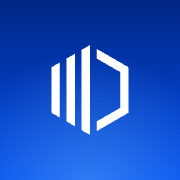
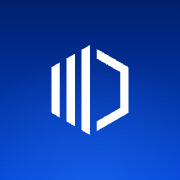
New brand palette: #011F6C, #0346D6, #236EF3
- --color-holo-25/50/75 tokens and lib/brand.ts switched to the latest
  webdev.co.id gradient, so CSS, WebGL and SVG art all follow
- Hard-coded rgba glows and shadows now derive from the tokens; the included
  icons' tints are mixed from the new light blue
- Favicon, apple icon and Open Graph image re-rendered in the new blues

diff --git a/src/components/home/Values.tsx b/src/components/home/Values.tsx
@@ -14,9 +14,9 @@ function ValueCard({ number, title, text, icon }: (typeof values)[number]) {
           className="absolute top-1/2 left-1/2 z-0 size-[310px] -translate-x-1/2 -translate-y-1/2 bg-[url(/images/patterns/dots.svg)] bg-center opacity-10"
         />
         {/* Icon in a blue-glowing double ring; the disc runs light blue → blue (brand gradient) */}
-        <div className="relative rounded-full bg-[linear-gradient(180deg,rgba(86,161,247,0.05)_0%,rgba(86,161,247,0)_100%)] p-3">
-          <div className="rounded-full bg-[rgba(86,161,247,0.3)] p-2 shadow-[0_0_80px_0_rgba(86,161,247,0.6)] backdrop-blur-md">
-            <div className="flex size-20 items-center justify-center overflow-hidden rounded-full bg-[linear-gradient(180deg,var(--color-holo-75)_0%,var(--color-holo-50)_100%)] shadow-[0_2px_4px_0_rgba(1,38,133,0.5),inset_0_0_24px_0_rgba(255,255,255,0.4),inset_0_1px_1px_0_rgba(255,255,255,0.6)] lg:size-30">
+        <div className="relative rounded-full bg-[linear-gradient(180deg,color-mix(in_srgb,var(--color-holo-75)_5%,transparent)_0%,transparent_100%)] p-3">
+          <div className="rounded-full bg-holo-75/30 p-2 shadow-[0_0_80px_0_color-mix(in_srgb,var(--color-holo-75)_60%,transparent)] backdrop-blur-md">
+            <div className="flex size-20 items-center justify-center overflow-hidden rounded-full bg-[linear-gradient(180deg,var(--color-holo-75)_0%,var(--color-holo-50)_100%)] shadow-[0_2px_4px_0_color-mix(in_srgb,var(--color-holo-25)_50%,transparent),inset_0_0_24px_0_rgba(255,255,255,0.4),inset_0_1px_1px_0_rgba(255,255,255,0.6)] lg:size-30">
               <Image src={icon} alt="" width={64} height={64} className="size-10 lg:size-16" />
             </div>
           </div>

diff --git a/src/components/home/IncludedIcon.tsx b/src/components/home/IncludedIcon.tsx
@@ -1,5 +1,5 @@
 import { useId, type ReactNode } from "react";
-import { brand } from "@/lib/brand";
+import { brand, mix } from "@/lib/brand";
 
 /*
  * Icons for "Sudah termasuk di setiap harga" (Services.tsx), after the Figma "included" icons: a frosted
@@ -99,10 +99,10 @@ export function IncludedIcon({ name }: { name: IncludedIconName }) {
       <defs>
         <linearGradient id={id("outer")} x1="0" y1="0" x2="0" y2="1">
           <stop offset="0" stopColor="#fff" />
-          <stop offset="1" stopColor="#8ec0fa" />
+          <stop offset="1" stopColor={mix(brand.light, brand.white, 0.4)} />
         </linearGradient>
         <linearGradient id={id("inner")} x1="0" y1="0" x2="0" y2="1">
-          <stop offset="0" stopColor="#cce3fd" />
+          <stop offset="0" stopColor={mix(brand.light, brand.white, 0.75)} />
           <stop offset="1" stopColor={brand.blue} />
         </linearGradient>
         {/* Frosted rim: a navy shade along the top inside edge and a white one along the bottom */}

diff --git a/src/lib/brand.ts b/src/lib/brand.ts
@@ -1,14 +1,13 @@
 /**
- * webdev.co.id brand colours, in gradient order. Based on the Figma "Linear" colour style
- * (#000000 / #011085 / #0428F0 / #568EF7 / #FFFFFF), with the three blues turned ~7–10° toward blue
- * because the originals read too purple on screen. The same values are the --color-holo-* tokens
- * in globals.css; this copy is for canvas, WebGL and SVG code.
+ * webdev.co.id brand colours, in gradient order: black, then the brand "Linear" gradient
+ * (#011F6C → #0346D6 → #236EF3, the 2026-10 update), then white. The same values are the
+ * --color-holo-* tokens in globals.css; this copy is for canvas, WebGL and SVG code.
  */
 export const brand = {
   black: "#000000", // 0%
-  navy: "#012685", // 25%
-  blue: "#0450F0", // 50%
-  light: "#56A1F7", // 75%
+  navy: "#011F6C", // 25%
+  blue: "#0346D6", // 50%
+  light: "#236EF3", // 75%
   white: "#FFFFFF", // 100%
 } as const;
 

diff --git a/src/components/home/Services.tsx b/src/components/home/Services.tsx
@@ -87,7 +87,7 @@ function IncludedCard() {
         {included.map((s) => (
           <div
             key={s.label}
-            className="flex h-[220px] min-w-0 flex-1 flex-col items-center justify-center gap-6 rounded-xl bg-[linear-gradient(180deg,rgba(86,161,247,0)_0%,var(--color-holo-75)_100%)] p-4 shadow-[inset_0_0_24px_0_#fff] max-md:px-3 md:h-60 md:px-3 md:py-6 lg:justify-between"
+            className="flex h-[220px] min-w-0 flex-1 flex-col items-center justify-center gap-6 rounded-xl bg-[linear-gradient(180deg,transparent_0%,var(--color-holo-75)_100%)] p-4 shadow-[inset_0_0_24px_0_#fff] max-md:px-3 md:h-60 md:px-3 md:py-6 lg:justify-between"
           >
             <div className="flex flex-1 items-center justify-center">
               <IncludedIcon name={s.icon} />

diff --git a/src/components/Button.tsx b/src/components/Button.tsx
@@ -46,7 +46,7 @@ export function Button({ href, children, variant = "primary", className = "", bl
     <span
       className={`flex items-center justify-center rounded-full px-6 py-3.5 ${arrow ? "gap-1.75" : "gap-2"} ${transition} ${
         inverted
-          ? "bg-white shadow-[inset_0_0_16px_0_rgba(4,80,240,0.5)] group-hover:shadow-[inset_0_0_20px_0_rgba(4,80,240,0.65)]"
+          ? "bg-white shadow-[inset_0_0_16px_0_color-mix(in_srgb,var(--color-holo-50)_50%,transparent)] group-hover:shadow-[inset_0_0_20px_0_color-mix(in_srgb,var(--color-holo-50)_65%,transparent)]"
           : "bg-grey-06 shadow-[inset_0_0_16px_0_rgba(255,255,255,0.5)] group-hover:shadow-[inset_0_0_20px_0_rgba(255,255,255,0.6)]"
       } ${width}`}
     >

diff --git a/src/app/globals.css b/src/app/globals.css
@@ -28,9 +28,9 @@
 
   /* Brand gradient (black → navy → blue → light blue → white); same values as lib/brand.ts */
   --color-holo-0: #000000;
-  --color-holo-25: #012685;
-  --color-holo-50: #0450f0;
-  --color-holo-75: #56a1f7;
+  --color-holo-25: #011f6c;
+  --color-holo-50: #0346d6;
+  --color-holo-75: #236ef3;
   --color-holo-100: #ffffff;
 
   --font-sans: var(--font-geist), "Geist", ui-sans-serif, system-ui, sans-serif;
@@ -56,7 +56,7 @@
     var(--color-holo-75) 100%
   );
   --ease-framer: cubic-bezier(0.44, 0, 0.56, 1);
-  /* Inset "glass" bevel used on the light cards */
+  /* Inset "glass" bevel on the light cards */
   --shadow-card: inset 0 0 1px 3px #fff, inset 0 -2px 1px 1px rgb(0 0 0 / 0.12);
 }
 
